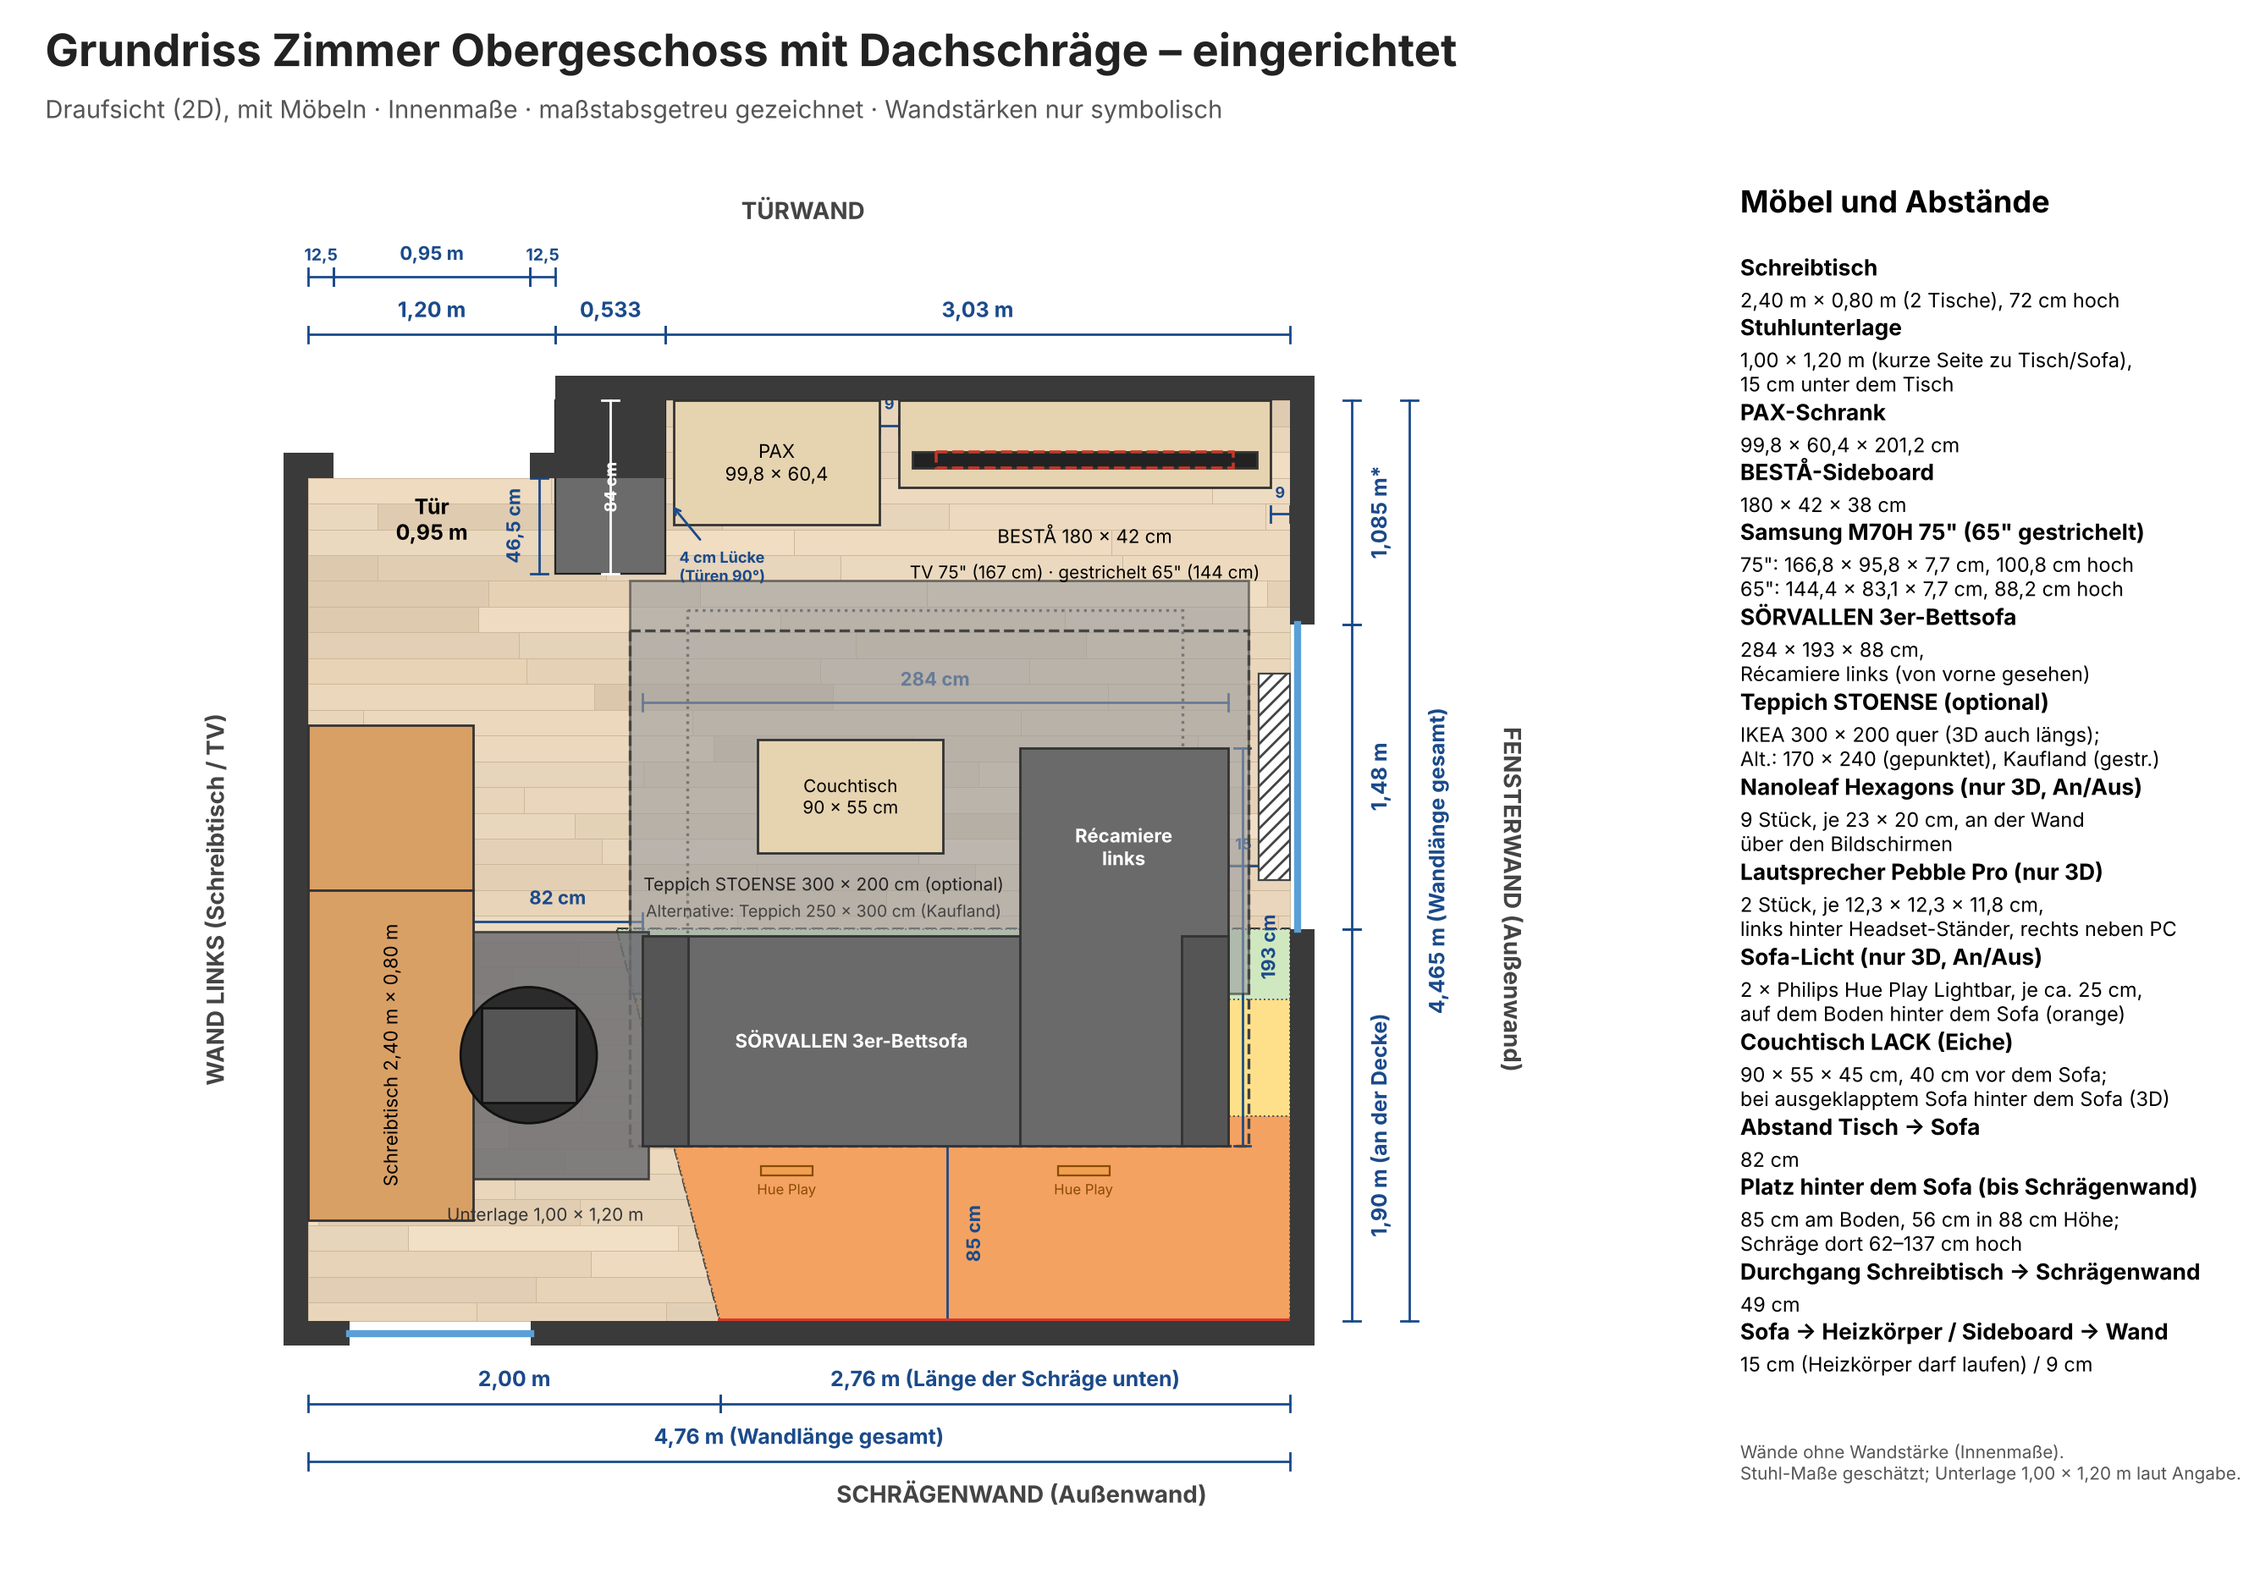
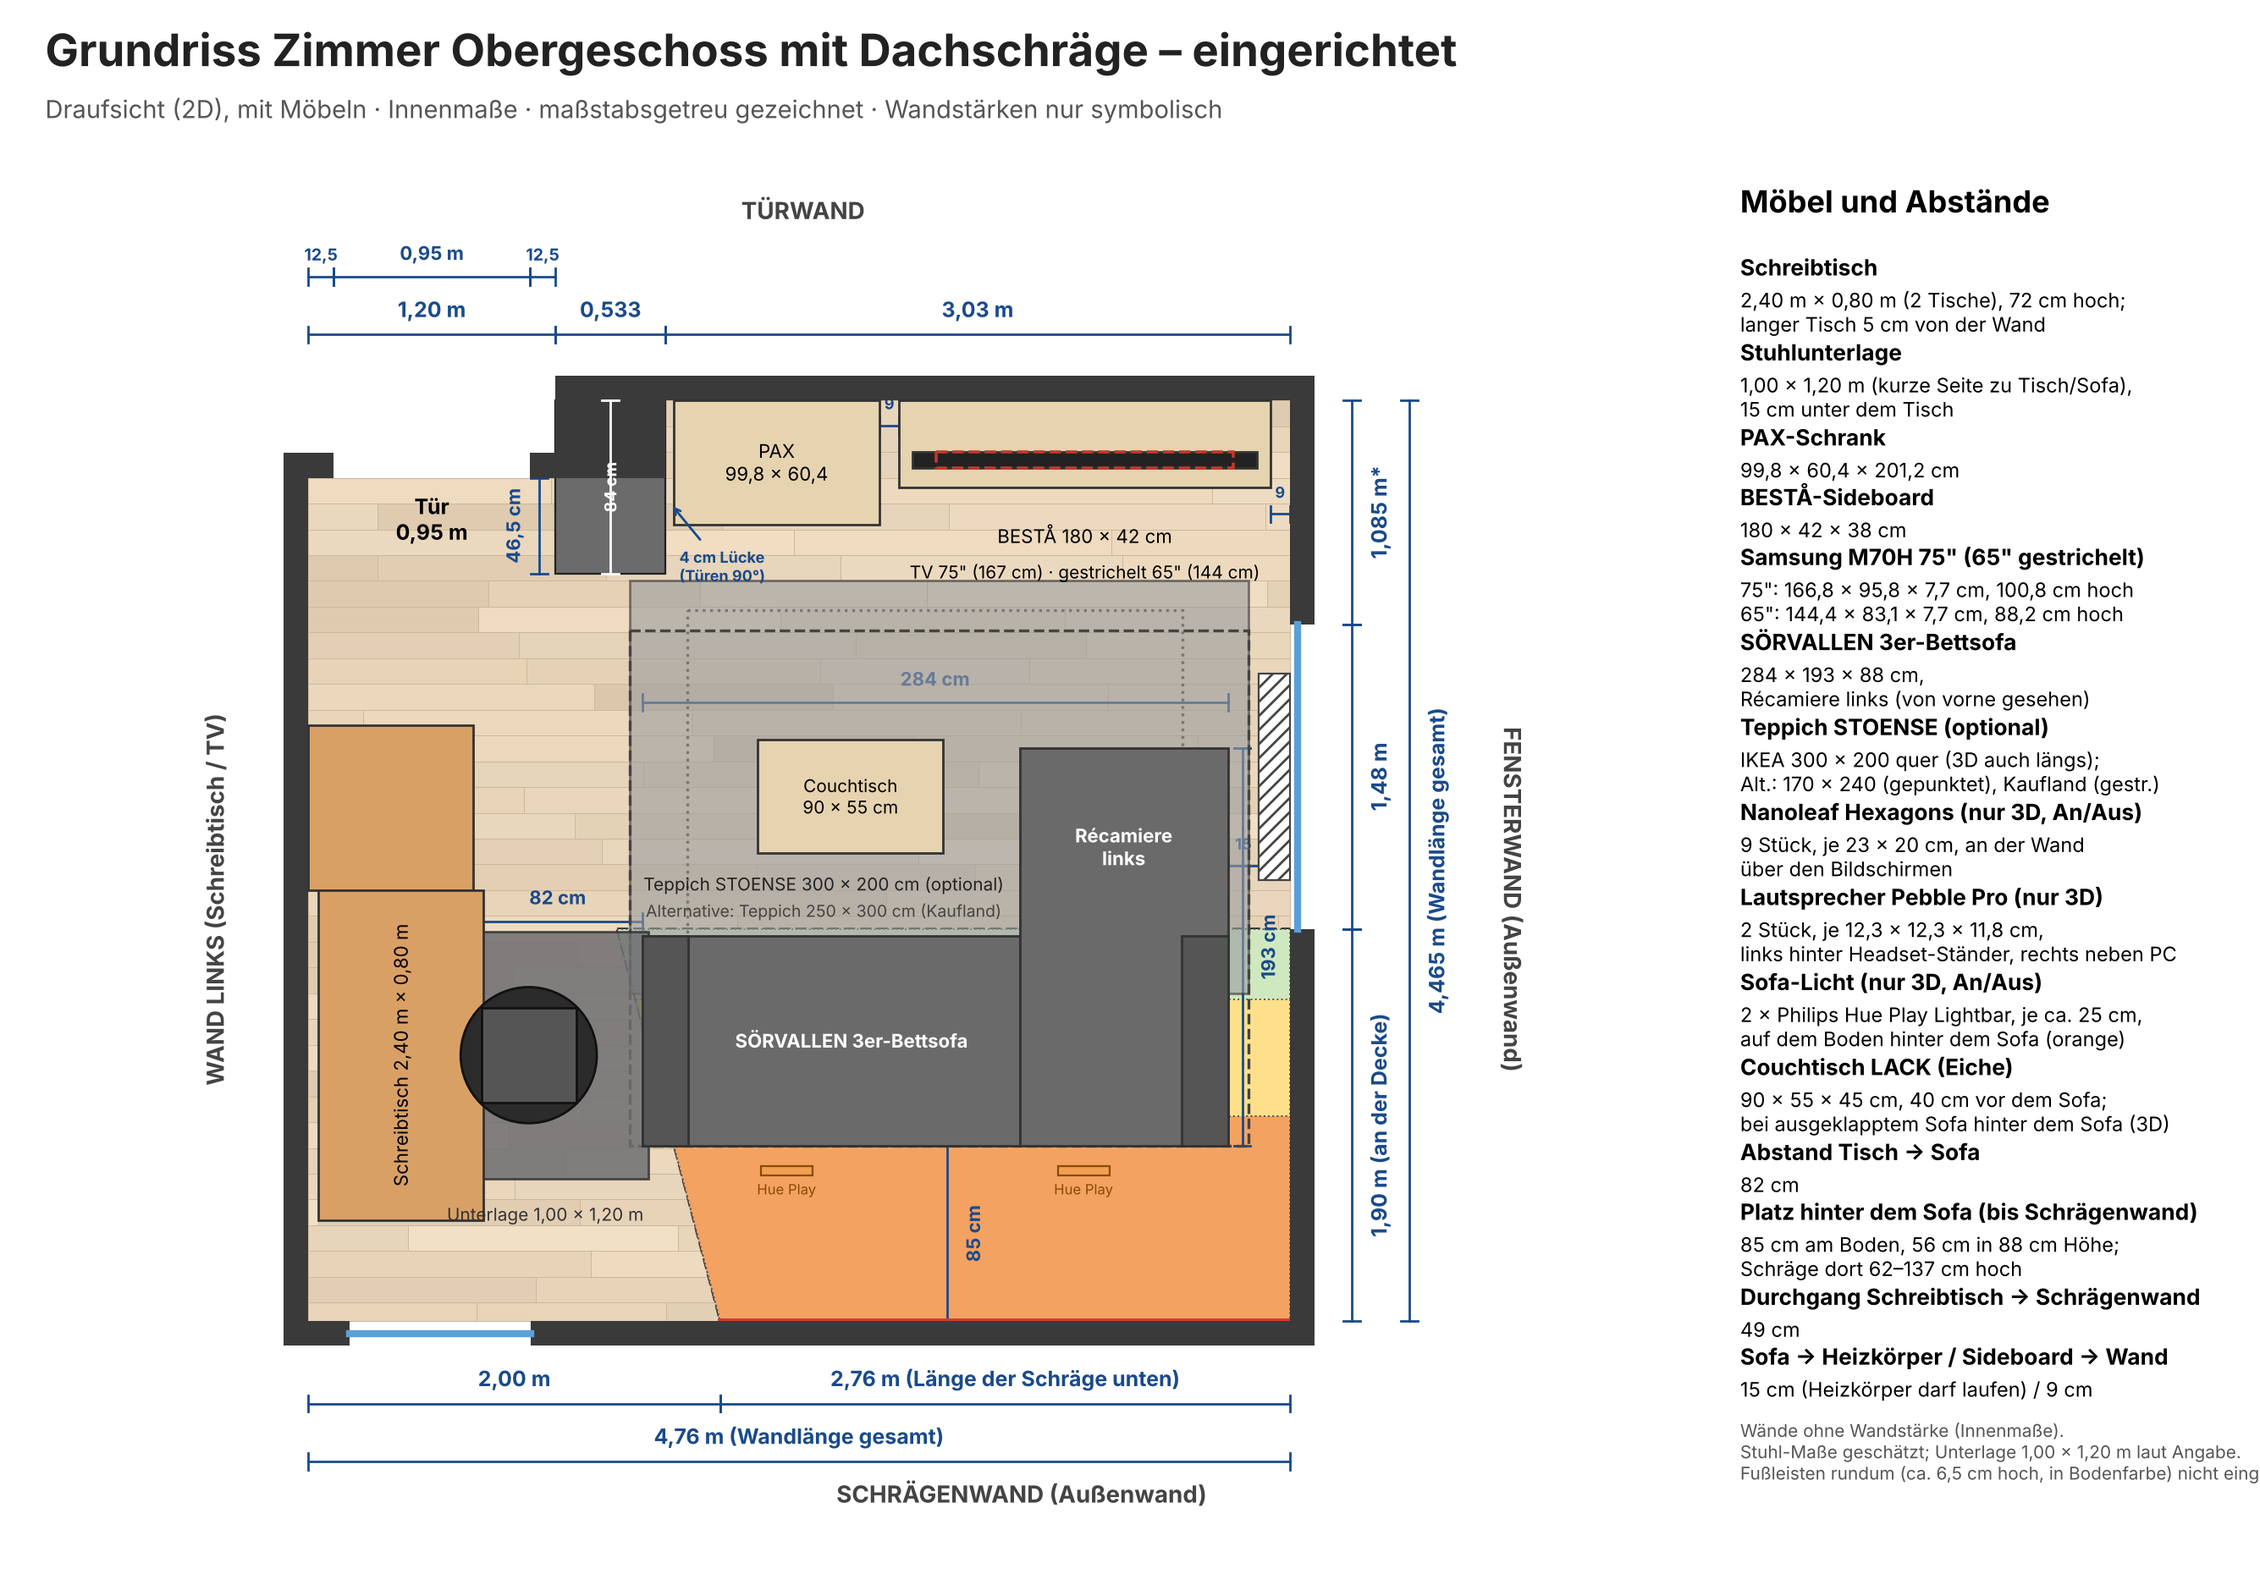
Fussleisten rundum, langer Tisch 5 cm von der Wand (3D, Plan)
Claude-Session: https://claude.ai/code/session_01Hf3Bkowp5NFKLbRns8Nosg

Changed region(s): [[0.7461, 0.1871, 1.0, 0.9667], [0.1243, 0.5613, 0.2176, 0.7796]]

diff --git a/eingerichtet.html b/eingerichtet.html
@@ -235,6 +235,17 @@ function box(x0,y0,z0,x1,y1,z1,color){
   var l=new THREE.LineSegments(new THREE.EdgesGeometry(m.geometry),em);l.position.copy(m.position);room.add(l);
 }
 box(1.20,0,0,1.733,0.465,H,0xe9e6de);       // Mauervorsprung (Schornstein, Tiefe 46,5 cm)
+// Fußleisten rundum (laut Fotos: Holzleiste in Bodenfarbe, ca. 6,5 cm hoch, 1,5 cm stark; nicht an der Tür)
+(function(){var SKC=0xa87c50,SH=0.065,ST=0.015;
+  box(0,0,0,ST,D,SH,SKC);                              // Schreibtischwand
+  box(0,0,0,0.125,ST,SH,SKC);box(1.075,0,0,1.20,ST,SH,SKC);   // Türwand (ohne Türöffnung 0,125–1,075)
+  box(1.20-ST,0,0,1.20,0.465,SH,SKC);                  // Mauervorsprung, Seite zur Tür
+  box(1.20-ST,0.465,0,1.733+ST,0.465+ST,SH,SKC);       // Mauervorsprung, Front
+  box(1.733,-NY,0,1.733+ST,0.465,SH,SKC);              // Mauervorsprung, Seite zur Nische
+  box(1.733,-NY,0,W,-NY+ST,SH,SKC);                    // Nischenrückwand
+  box(W-ST,-NY,0,W,D,SH,SKC);                          // Fensterwand
+  box(0,D-ST,0,W,D,SH,SKC);                            // Schrägenwand-Seite
+})();
 // Fensterbänke (weiß, 3 cm Überstand in den Raum, 2 cm Überstand seitlich)
 box(W-0.03,eWin.u0-0.02,eWin.v0-0.025,W+WD,eWin.u1+0.02,eWin.v0,0xffffff);
 box(sWin.u0-0.02,D-0.03,sWin.v0-0.025,sWin.u1+0.02,D+WD,sWin.v0,0xffffff);
@@ -325,11 +336,11 @@ cat='tisch';
 // Schreibtisch an der linken Wand (aus zwei Tischen, zusammen 2,40 m, je 80 cm tief, 72 cm hoch)
 // 49 cm Abstand zur Schrägenwand, 1,20 m Abstand zur Türwand. Aufteilung 1,60 m + 0,80 m geschätzt.
 var DT=0.025,DHT=0.72,DEP=0.80,Y0=1.20,Y1=Y0+0.80,Y2=D-0.49,BEECH=0xd9a066,BLK=0x2b2b2b;
-box(0,Y1,DHT-DT,DEP,Y2,DHT,BEECH);   // Tisch links (1,60 m, Fensterseite)
-box(0,Y0,DHT-DT,DEP,Y1,DHT,BEECH);   // Tisch rechts (0,80 m, Türseite)
-[Y1+0.15,Y2-0.15,Y0+0.15,Y1-0.15].forEach(function(yc){
-  box(0.37,yc-0.03,0.04,0.43,yc+0.03,DHT-DT,BLK);   // Standbein
-  box(0.10,yc-0.03,0,0.70,yc+0.03,0.04,BLK);        // Fuß
+box(0.05,Y1,DHT-DT,DEP+0.05,Y2,DHT,BEECH);   // Tisch links (1,60 m, Fensterseite): steht 5 cm von der Wand ab
+box(0,Y0,DHT-DT,DEP,Y1,DHT,BEECH);   // Tisch rechts (0,80 m, Türseite): steht an der Wand/Fußleiste
+[[Y1+0.15,0.05],[Y2-0.15,0.05],[Y0+0.15,0],[Y1-0.15,0]].forEach(function(q){var yc=q[0],dx=q[1];
+  box(0.37+dx,yc-0.03,0.04,0.43+dx,yc+0.03,DHT-DT,BLK);   // Standbein
+  box(0.10+dx,yc-0.03,0,0.70+dx,yc+0.03,0.04,BLK);        // Fuß
 });
 (function(){
   var v=[],x=1.05;

diff --git a/eingerichtet_mobil.html b/eingerichtet_mobil.html
@@ -248,6 +248,17 @@ function box(x0,y0,z0,x1,y1,z1,color){
   var l=new THREE.LineSegments(new THREE.EdgesGeometry(m.geometry),em);l.position.copy(m.position);room.add(l);
 }
 box(1.20,0,0,1.733,0.465,H,0xe9e6de);       // Mauervorsprung (Schornstein, Tiefe 46,5 cm)
+// Fußleisten rundum (laut Fotos: Holzleiste in Bodenfarbe, ca. 6,5 cm hoch, 1,5 cm stark; nicht an der Tür)
+(function(){var SKC=0xa87c50,SH=0.065,ST=0.015;
+  box(0,0,0,ST,D,SH,SKC);                              // Schreibtischwand
+  box(0,0,0,0.125,ST,SH,SKC);box(1.075,0,0,1.20,ST,SH,SKC);   // Türwand (ohne Türöffnung 0,125–1,075)
+  box(1.20-ST,0,0,1.20,0.465,SH,SKC);                  // Mauervorsprung, Seite zur Tür
+  box(1.20-ST,0.465,0,1.733+ST,0.465+ST,SH,SKC);       // Mauervorsprung, Front
+  box(1.733,-NY,0,1.733+ST,0.465,SH,SKC);              // Mauervorsprung, Seite zur Nische
+  box(1.733,-NY,0,W,-NY+ST,SH,SKC);                    // Nischenrückwand
+  box(W-ST,-NY,0,W,D,SH,SKC);                          // Fensterwand
+  box(0,D-ST,0,W,D,SH,SKC);                            // Schrägenwand-Seite
+})();
 // Fensterbänke (weiß, 3 cm Überstand in den Raum, 2 cm Überstand seitlich)
 box(W-0.03,eWin.u0-0.02,eWin.v0-0.025,W+WD,eWin.u1+0.02,eWin.v0,0xffffff);
 box(sWin.u0-0.02,D-0.03,sWin.v0-0.025,sWin.u1+0.02,D+WD,sWin.v0,0xffffff);
@@ -338,11 +349,11 @@ cat='tisch';
 // Schreibtisch an der linken Wand (aus zwei Tischen, zusammen 2,40 m, je 80 cm tief, 72 cm hoch)
 // 49 cm Abstand zur Schrägenwand, 1,20 m Abstand zur Türwand. Aufteilung 1,60 m + 0,80 m geschätzt.
 var DT=0.025,DHT=0.72,DEP=0.80,Y0=1.20,Y1=Y0+0.80,Y2=D-0.49,BEECH=0xd9a066,BLK=0x2b2b2b;
-box(0,Y1,DHT-DT,DEP,Y2,DHT,BEECH);   // Tisch links (1,60 m, Fensterseite)
-box(0,Y0,DHT-DT,DEP,Y1,DHT,BEECH);   // Tisch rechts (0,80 m, Türseite)
-[Y1+0.15,Y2-0.15,Y0+0.15,Y1-0.15].forEach(function(yc){
-  box(0.37,yc-0.03,0.04,0.43,yc+0.03,DHT-DT,BLK);   // Standbein
-  box(0.10,yc-0.03,0,0.70,yc+0.03,0.04,BLK);        // Fuß
+box(0.05,Y1,DHT-DT,DEP+0.05,Y2,DHT,BEECH);   // Tisch links (1,60 m, Fensterseite): steht 5 cm von der Wand ab
+box(0,Y0,DHT-DT,DEP,Y1,DHT,BEECH);   // Tisch rechts (0,80 m, Türseite): steht an der Wand/Fußleiste
+[[Y1+0.15,0.05],[Y2-0.15,0.05],[Y0+0.15,0],[Y1-0.15,0]].forEach(function(q){var yc=q[0],dx=q[1];
+  box(0.37+dx,yc-0.03,0.04,0.43+dx,yc+0.03,DHT-DT,BLK);   // Standbein
+  box(0.10+dx,yc-0.03,0,0.70+dx,yc+0.03,0.04,BLK);        // Fuß
 });
 (function(){
   var v=[],x=1.05;

diff --git a/interaktiv.html b/interaktiv.html
@@ -235,6 +235,17 @@ function box(x0,y0,z0,x1,y1,z1,color){
   var l=new THREE.LineSegments(new THREE.EdgesGeometry(m.geometry),em);l.position.copy(m.position);room.add(l);
 }
 box(1.20,0,0,1.733,0.465,H,0xe9e6de);       // Mauervorsprung (Schornstein, Tiefe 46,5 cm)
+// Fußleisten rundum (laut Fotos: Holzleiste in Bodenfarbe, ca. 6,5 cm hoch, 1,5 cm stark; nicht an der Tür)
+(function(){var SKC=0xa87c50,SH=0.065,ST=0.015;
+  box(0,0,0,ST,D,SH,SKC);                              // Schreibtischwand
+  box(0,0,0,0.125,ST,SH,SKC);box(1.075,0,0,1.20,ST,SH,SKC);   // Türwand (ohne Türöffnung 0,125–1,075)
+  box(1.20-ST,0,0,1.20,0.465,SH,SKC);                  // Mauervorsprung, Seite zur Tür
+  box(1.20-ST,0.465,0,1.733+ST,0.465+ST,SH,SKC);       // Mauervorsprung, Front
+  box(1.733,-NY,0,1.733+ST,0.465,SH,SKC);              // Mauervorsprung, Seite zur Nische
+  box(1.733,-NY,0,W,-NY+ST,SH,SKC);                    // Nischenrückwand
+  box(W-ST,-NY,0,W,D,SH,SKC);                          // Fensterwand
+  box(0,D-ST,0,W,D,SH,SKC);                            // Schrägenwand-Seite
+})();
 // Fensterbänke (weiß, 3 cm Überstand in den Raum, 2 cm Überstand seitlich)
 box(W-0.03,eWin.u0-0.02,eWin.v0-0.025,W+WD,eWin.u1+0.02,eWin.v0,0xffffff);
 box(sWin.u0-0.02,D-0.03,sWin.v0-0.025,sWin.u1+0.02,D+WD,sWin.v0,0xffffff);
@@ -325,11 +336,11 @@ cat='tisch';
 // Schreibtisch an der linken Wand (aus zwei Tischen, zusammen 2,40 m, je 80 cm tief, 72 cm hoch)
 // 49 cm Abstand zur Schrägenwand, 1,20 m Abstand zur Türwand. Aufteilung 1,60 m + 0,80 m geschätzt.
 var DT=0.025,DHT=0.72,DEP=0.80,Y0=1.20,Y1=Y0+0.80,Y2=D-0.49,BEECH=0xd9a066,BLK=0x2b2b2b;
-box(0,Y1,DHT-DT,DEP,Y2,DHT,BEECH);   // Tisch links (1,60 m, Fensterseite)
-box(0,Y0,DHT-DT,DEP,Y1,DHT,BEECH);   // Tisch rechts (0,80 m, Türseite)
-[Y1+0.15,Y2-0.15,Y0+0.15,Y1-0.15].forEach(function(yc){
-  box(0.37,yc-0.03,0.04,0.43,yc+0.03,DHT-DT,BLK);   // Standbein
-  box(0.10,yc-0.03,0,0.70,yc+0.03,0.04,BLK);        // Fuß
+box(0.05,Y1,DHT-DT,DEP+0.05,Y2,DHT,BEECH);   // Tisch links (1,60 m, Fensterseite): steht 5 cm von der Wand ab
+box(0,Y0,DHT-DT,DEP,Y1,DHT,BEECH);   // Tisch rechts (0,80 m, Türseite): steht an der Wand/Fußleiste
+[[Y1+0.15,0.05],[Y2-0.15,0.05],[Y0+0.15,0],[Y1-0.15,0]].forEach(function(q){var yc=q[0],dx=q[1];
+  box(0.37+dx,yc-0.03,0.04,0.43+dx,yc+0.03,DHT-DT,BLK);   // Standbein
+  box(0.10+dx,yc-0.03,0,0.70+dx,yc+0.03,0.04,BLK);        // Fuß
 });
 (function(){
   var v=[],x=1.05;

diff --git a/interaktiv_mobil.html b/interaktiv_mobil.html
@@ -248,6 +248,17 @@ function box(x0,y0,z0,x1,y1,z1,color){
   var l=new THREE.LineSegments(new THREE.EdgesGeometry(m.geometry),em);l.position.copy(m.position);room.add(l);
 }
 box(1.20,0,0,1.733,0.465,H,0xe9e6de);       // Mauervorsprung (Schornstein, Tiefe 46,5 cm)
+// Fußleisten rundum (laut Fotos: Holzleiste in Bodenfarbe, ca. 6,5 cm hoch, 1,5 cm stark; nicht an der Tür)
+(function(){var SKC=0xa87c50,SH=0.065,ST=0.015;
+  box(0,0,0,ST,D,SH,SKC);                              // Schreibtischwand
+  box(0,0,0,0.125,ST,SH,SKC);box(1.075,0,0,1.20,ST,SH,SKC);   // Türwand (ohne Türöffnung 0,125–1,075)
+  box(1.20-ST,0,0,1.20,0.465,SH,SKC);                  // Mauervorsprung, Seite zur Tür
+  box(1.20-ST,0.465,0,1.733+ST,0.465+ST,SH,SKC);       // Mauervorsprung, Front
+  box(1.733,-NY,0,1.733+ST,0.465,SH,SKC);              // Mauervorsprung, Seite zur Nische
+  box(1.733,-NY,0,W,-NY+ST,SH,SKC);                    // Nischenrückwand
+  box(W-ST,-NY,0,W,D,SH,SKC);                          // Fensterwand
+  box(0,D-ST,0,W,D,SH,SKC);                            // Schrägenwand-Seite
+})();
 // Fensterbänke (weiß, 3 cm Überstand in den Raum, 2 cm Überstand seitlich)
 box(W-0.03,eWin.u0-0.02,eWin.v0-0.025,W+WD,eWin.u1+0.02,eWin.v0,0xffffff);
 box(sWin.u0-0.02,D-0.03,sWin.v0-0.025,sWin.u1+0.02,D+WD,sWin.v0,0xffffff);
@@ -338,11 +349,11 @@ cat='tisch';
 // Schreibtisch an der linken Wand (aus zwei Tischen, zusammen 2,40 m, je 80 cm tief, 72 cm hoch)
 // 49 cm Abstand zur Schrägenwand, 1,20 m Abstand zur Türwand. Aufteilung 1,60 m + 0,80 m geschätzt.
 var DT=0.025,DHT=0.72,DEP=0.80,Y0=1.20,Y1=Y0+0.80,Y2=D-0.49,BEECH=0xd9a066,BLK=0x2b2b2b;
-box(0,Y1,DHT-DT,DEP,Y2,DHT,BEECH);   // Tisch links (1,60 m, Fensterseite)
-box(0,Y0,DHT-DT,DEP,Y1,DHT,BEECH);   // Tisch rechts (0,80 m, Türseite)
-[Y1+0.15,Y2-0.15,Y0+0.15,Y1-0.15].forEach(function(yc){
-  box(0.37,yc-0.03,0.04,0.43,yc+0.03,DHT-DT,BLK);   // Standbein
-  box(0.10,yc-0.03,0,0.70,yc+0.03,0.04,BLK);        // Fuß
+box(0.05,Y1,DHT-DT,DEP+0.05,Y2,DHT,BEECH);   // Tisch links (1,60 m, Fensterseite): steht 5 cm von der Wand ab
+box(0,Y0,DHT-DT,DEP,Y1,DHT,BEECH);   // Tisch rechts (0,80 m, Türseite): steht an der Wand/Fußleiste
+[[Y1+0.15,0.05],[Y2-0.15,0.05],[Y0+0.15,0],[Y1-0.15,0]].forEach(function(q){var yc=q[0],dx=q[1];
+  box(0.37+dx,yc-0.03,0.04,0.43+dx,yc+0.03,DHT-DT,BLK);   // Standbein
+  box(0.10+dx,yc-0.03,0,0.70+dx,yc+0.03,0.04,BLK);        // Fuß
 });
 (function(){
   var v=[],x=1.05;

diff --git a/leer.html b/leer.html
@@ -170,6 +170,17 @@ function box(x0,y0,z0,x1,y1,z1,color){
   var l=new THREE.LineSegments(new THREE.EdgesGeometry(m.geometry),em);l.position.copy(m.position);room.add(l);
 }
 box(1.20,0,0,1.733,0.465,H,0xe9e6de);       // Mauervorsprung (Schornstein, Tiefe 46,5 cm)
+// Fußleisten rundum (laut Fotos: Holzleiste in Bodenfarbe, ca. 6,5 cm hoch, 1,5 cm stark; nicht an der Tür)
+(function(){var SKC=0xa87c50,SH=0.065,ST=0.015;
+  box(0,0,0,ST,D,SH,SKC);                              // Schreibtischwand
+  box(0,0,0,0.125,ST,SH,SKC);box(1.075,0,0,1.20,ST,SH,SKC);   // Türwand (ohne Türöffnung 0,125–1,075)
+  box(1.20-ST,0,0,1.20,0.465,SH,SKC);                  // Mauervorsprung, Seite zur Tür
+  box(1.20-ST,0.465,0,1.733+ST,0.465+ST,SH,SKC);       // Mauervorsprung, Front
+  box(1.733,-NY,0,1.733+ST,0.465,SH,SKC);              // Mauervorsprung, Seite zur Nische
+  box(1.733,-NY,0,W,-NY+ST,SH,SKC);                    // Nischenrückwand
+  box(W-ST,-NY,0,W,D,SH,SKC);                          // Fensterwand
+  box(0,D-ST,0,W,D,SH,SKC);                            // Schrägenwand-Seite
+})();
 // Fensterbänke (weiß, 3 cm Überstand in den Raum, 2 cm Überstand seitlich)
 box(W-0.03,eWin.u0-0.02,eWin.v0-0.025,W+WD,eWin.u1+0.02,eWin.v0,0xffffff);
 box(sWin.u0-0.02,D-0.03,sWin.v0-0.025,sWin.u1+0.02,D+WD,sWin.v0,0xffffff);

diff --git a/leer_mobil.html b/leer_mobil.html
@@ -187,6 +187,17 @@ function box(x0,y0,z0,x1,y1,z1,color){
   var l=new THREE.LineSegments(new THREE.EdgesGeometry(m.geometry),em);l.position.copy(m.position);room.add(l);
 }
 box(1.20,0,0,1.733,0.465,H,0xe9e6de);       // Mauervorsprung (Schornstein, Tiefe 46,5 cm)
+// Fußleisten rundum (laut Fotos: Holzleiste in Bodenfarbe, ca. 6,5 cm hoch, 1,5 cm stark; nicht an der Tür)
+(function(){var SKC=0xa87c50,SH=0.065,ST=0.015;
+  box(0,0,0,ST,D,SH,SKC);                              // Schreibtischwand
+  box(0,0,0,0.125,ST,SH,SKC);box(1.075,0,0,1.20,ST,SH,SKC);   // Türwand (ohne Türöffnung 0,125–1,075)
+  box(1.20-ST,0,0,1.20,0.465,SH,SKC);                  // Mauervorsprung, Seite zur Tür
+  box(1.20-ST,0.465,0,1.733+ST,0.465+ST,SH,SKC);       // Mauervorsprung, Front
+  box(1.733,-NY,0,1.733+ST,0.465,SH,SKC);              // Mauervorsprung, Seite zur Nische
+  box(1.733,-NY,0,W,-NY+ST,SH,SKC);                    // Nischenrückwand
+  box(W-ST,-NY,0,W,D,SH,SKC);                          // Fensterwand
+  box(0,D-ST,0,W,D,SH,SKC);                            // Schrägenwand-Seite
+})();
 // Fensterbänke (weiß, 3 cm Überstand in den Raum, 2 cm Überstand seitlich)
 box(W-0.03,eWin.u0-0.02,eWin.v0-0.025,W+WD,eWin.u1+0.02,eWin.v0,0xffffff);
 box(sWin.u0-0.02,D-0.03,sWin.v0-0.025,sWin.u1+0.02,D+WD,sWin.v0,0xffffff);
